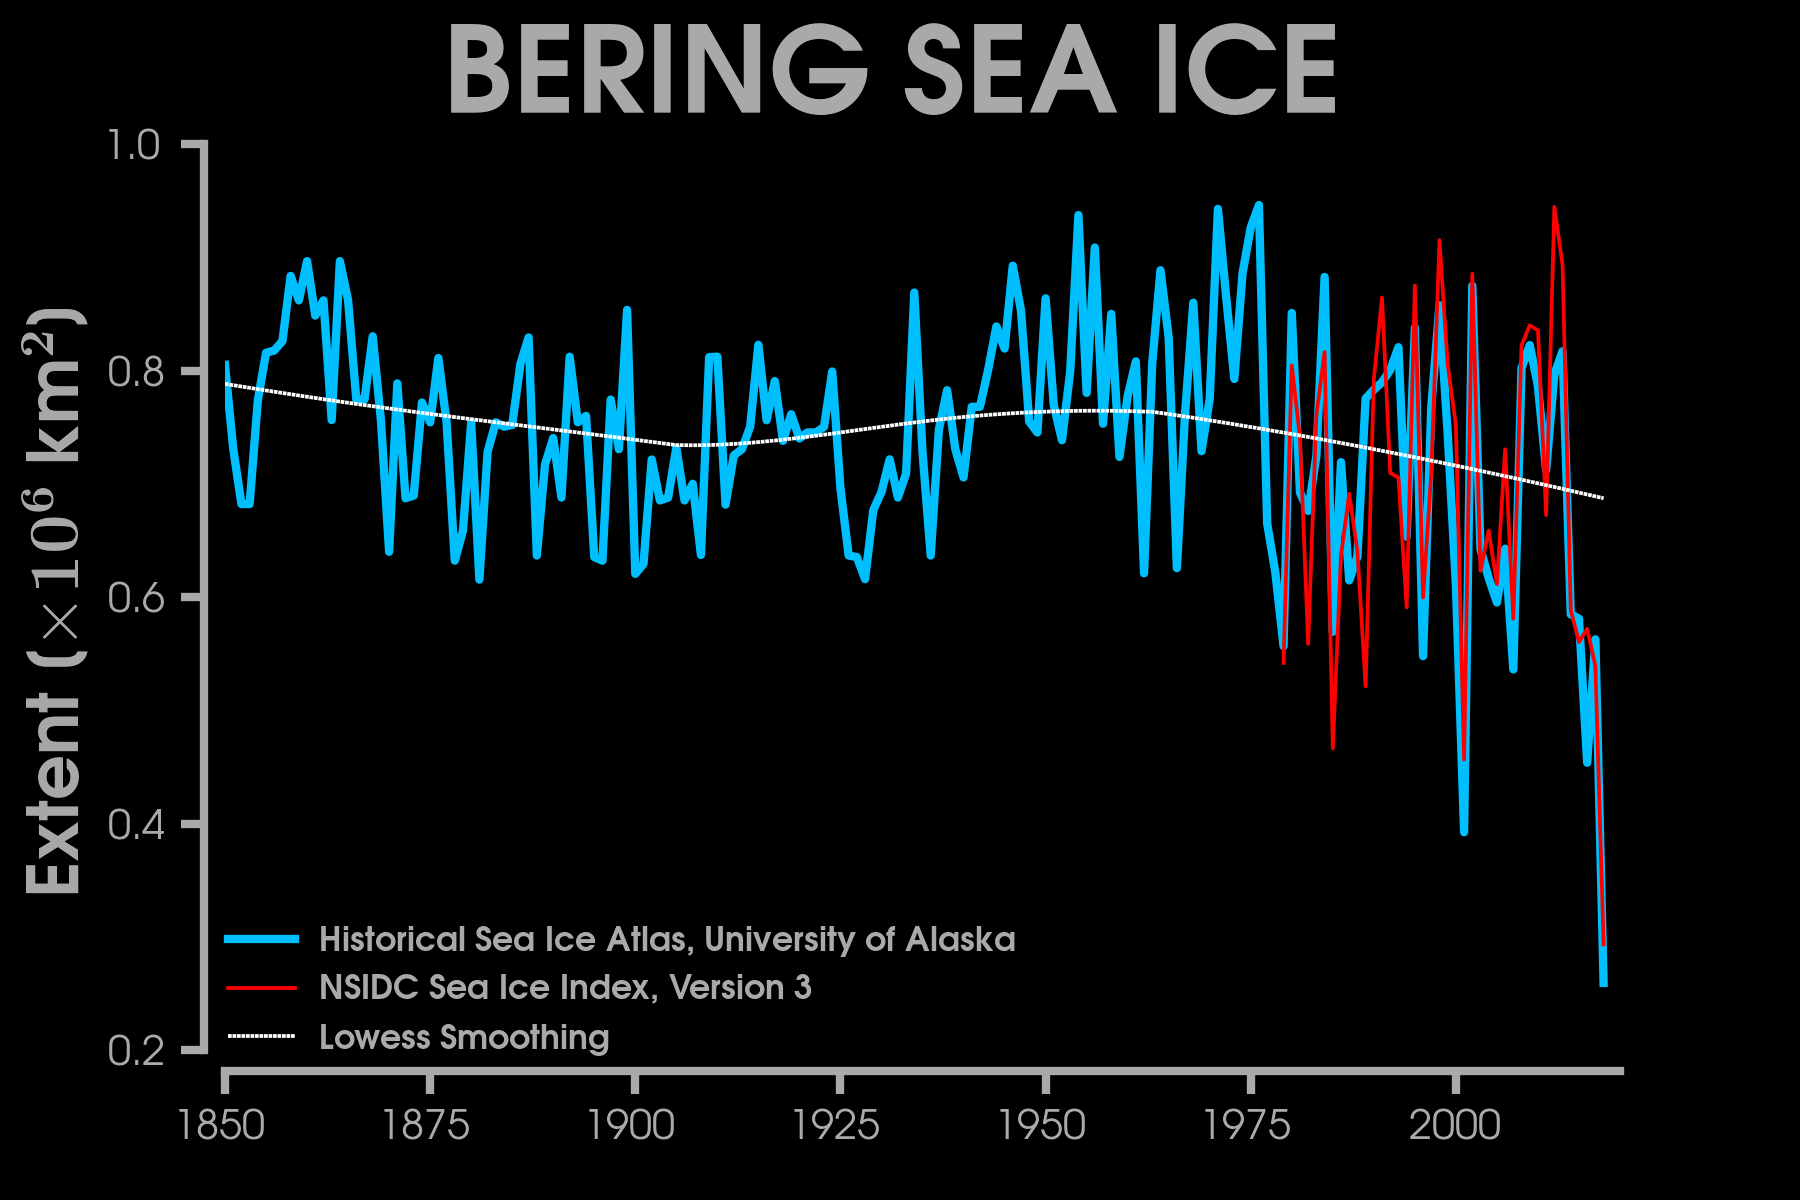
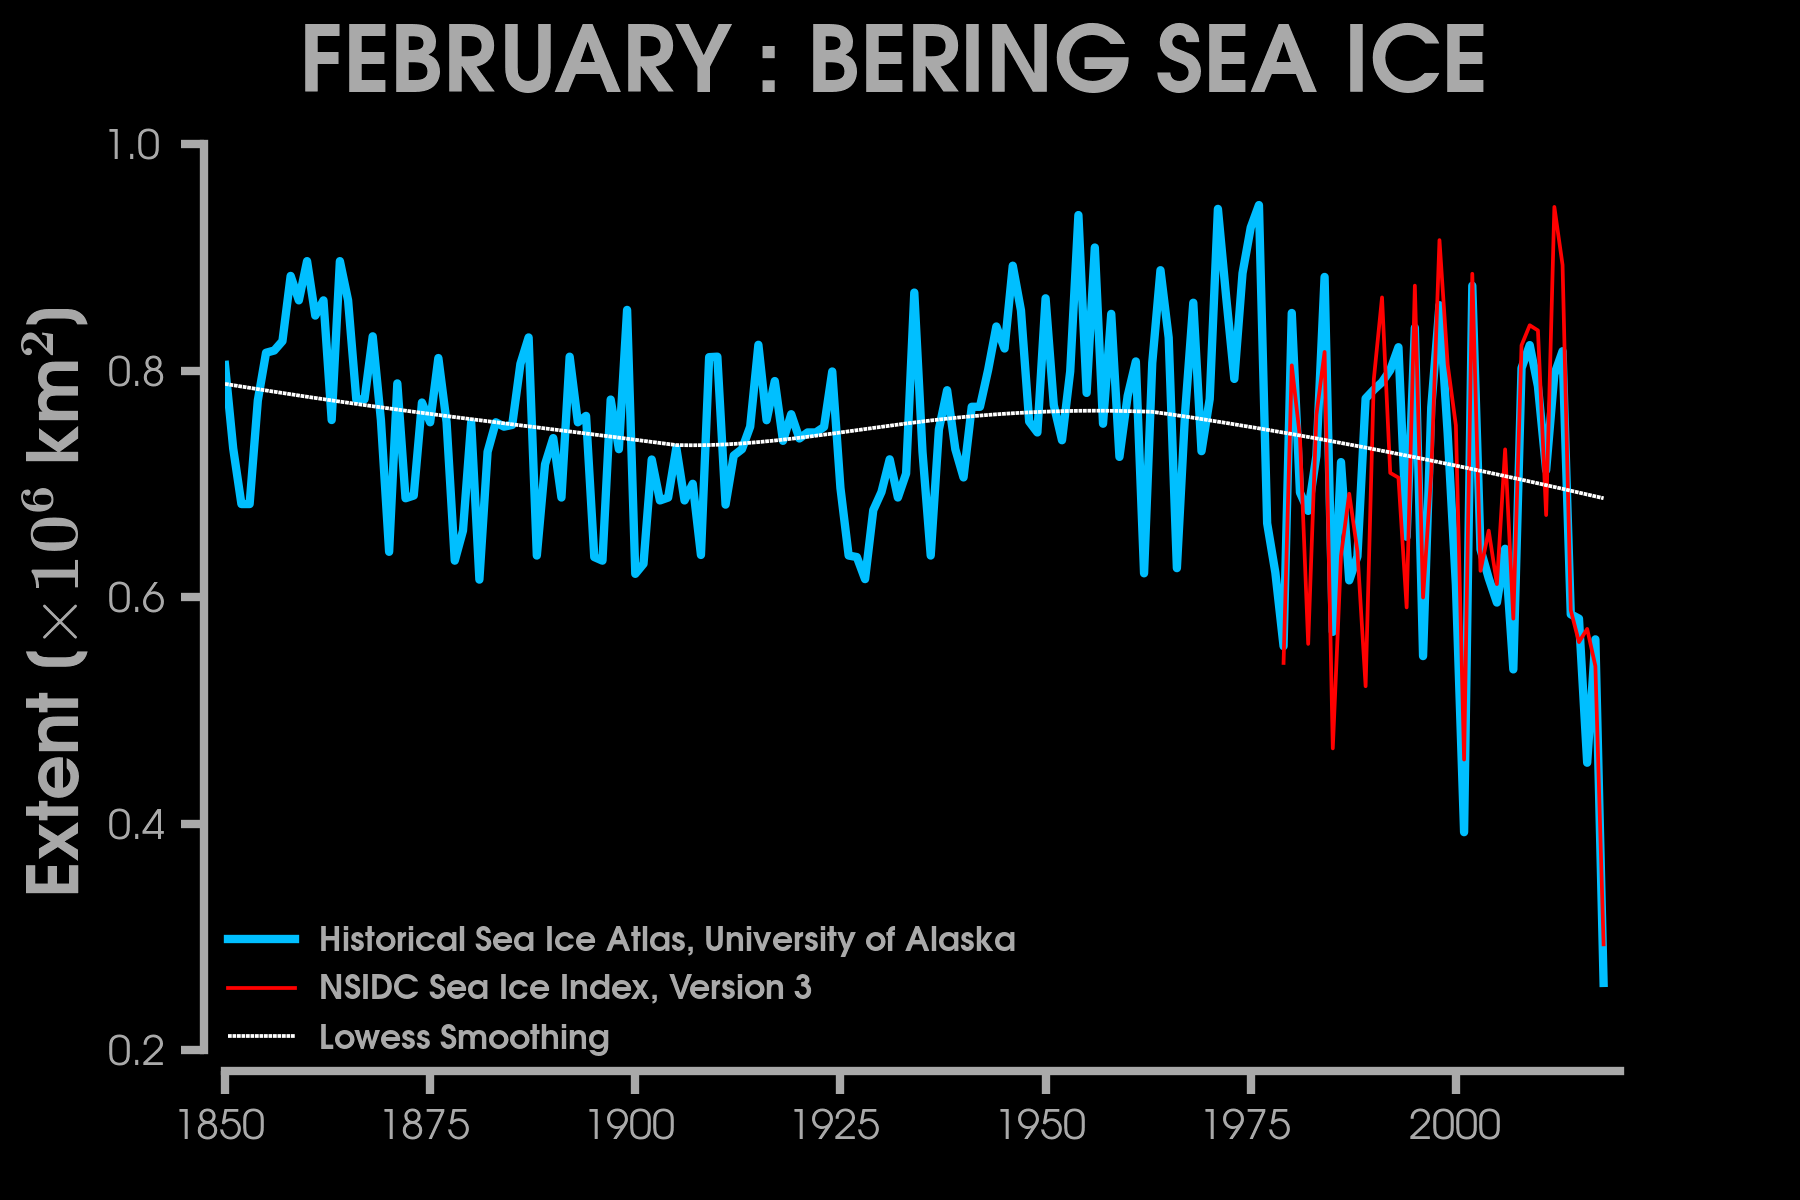
added baseline, title fix

Changed region(s): [[0.1556, 0.0, 0.84, 0.0925]]

diff --git a/Scripts/plot_BeringSeaIceExtent.py b/Scripts/plot_BeringSeaIceExtent.py
@@ -26,7 +26,7 @@ currentdy = str(now.day)
 currentyr = str(now.year)
 currenttime = currentmn + '_' + currentdy + '_' + currentyr
 titletime = currentmn + '/' + currentdy + '/' + currentyr
-print('\n' '----Plotting Bering SIC - %s----' % titletime)
+print('\n' '----Plotting Bering SIE - %s----' % titletime)
 
 ### Define years
 years = np.arange(1850,2018+1,1)
@@ -88,9 +88,6 @@ smoothed = sm.nonparametric.lowess(ext,np.arange(years.shape[0]))
 ###############################################################################
 ###############################################################################
 ### Plot figures
-fig = plt.figure()
-ax = plt.subplot(111)
-
 plt.rc('text',usetex=True)
 plt.rc('font',**{'family':'sans-serif','sans-serif':['Avant Garde']}) 
 plt.rc('savefig',facecolor='black')
@@ -99,6 +96,9 @@ plt.rc('xtick',color='white')
 plt.rc('ytick',color='white')
 plt.rc('axes',labelcolor='white')
 plt.rc('axes',facecolor='black')
+
+fig = plt.figure()
+ax = plt.subplot(111)
 
 ### Adjust axes in time series plots 
 def adjust_spines(ax, spines):
@@ -139,8 +139,8 @@ plt.yticks(np.arange(0,2.5,0.2),list(map(str,np.arange(0,2.5,0.2))),
            color='darkgrey')
 plt.ylim([0.2,1])
 
-fig.suptitle(r'\textbf{BERING SEA ICE}',
-                       fontsize=29,color='darkgrey') 
+fig.suptitle(r'\textbf{FEBRUARY : BERING SEA ICE}',
+                       fontsize=22,color='darkgrey') 
 plt.ylabel(r'\textbf{Extent [$\bf{\times 10^{6}}$\ \textbf{km}$\bf{^2}$]}',
            fontsize=17,alpha=1,color='darkgrey',rotation=90) 
 

diff --git a/Scripts/plot_BeringSeaIceExtent_baselines.py b/Scripts/plot_BeringSeaIceExtent_baselines.py
@@ -44,9 +44,12 @@ minq = ice[np.where(rank==np.min(rank))[0]]
 yearq = np.where((years>=1979) & (years<=2017))[0]
 icebase = np.nanmean(ice[yearq],axis=0)
 
+yearqq = np.where((years>=1942) & (years<=1978))[0]
+oldicebase = np.nanmean(ice[yearqq],axis=0)
+
 ice18 = ice[-1]
 
-allbar = [icebase,maxq,minq,ice18]
+allbar = [oldicebase,icebase,maxq,minq,ice18]
 
 ###############################################################################
 ###############################################################################
@@ -89,20 +92,22 @@ plt.setp(ax.get_xticklines()[0:-1],visible=False)
 rects = ax.bar(ind,allbar,width,color='deepskyblue',alpha=1,zorder=1)
 
 rects[0].set_color('darkgrey')
+rects[1].set_color('darkgrey')
 rects[-1].set_color('r')
 
-labels = [r'1979-2017 Mean',r'Max (1976)',r'Min (2001)',r'2018']
+labels = [r'1942-1978 Mean',r'1979-2017 Mean',
+          r'Max (1976)',r'Min (2001)',r'2018']
 for i, rect in enumerate(rects):
-    if i == 0:
+    if any([i == 0,i == 31]):
         cc = 'darkgrey'
-    elif any([i == 1,i==2]):
+    elif any([i == 2,i == 3]):
         cc = 'deepskyblue'
-    elif i == 3:
+    elif i == 4:
         cc = 'r'
     height = rect.get_height()
     plt.text(rect.get_x() + rect.get_width()/2.0, height+0.01,
-             r'\textbf{%s}' % labels[i], ha='center', va='bottom',color=cc)
-
+             r'\textbf{%s}' % labels[i], ha='center', va='bottom',color=cc,
+             fontsize=8)
 
 plt.yticks(np.arange(0,2.5,0.2),list(map(str,np.arange(0,2.5,0.2))),
            color='darkgrey')
